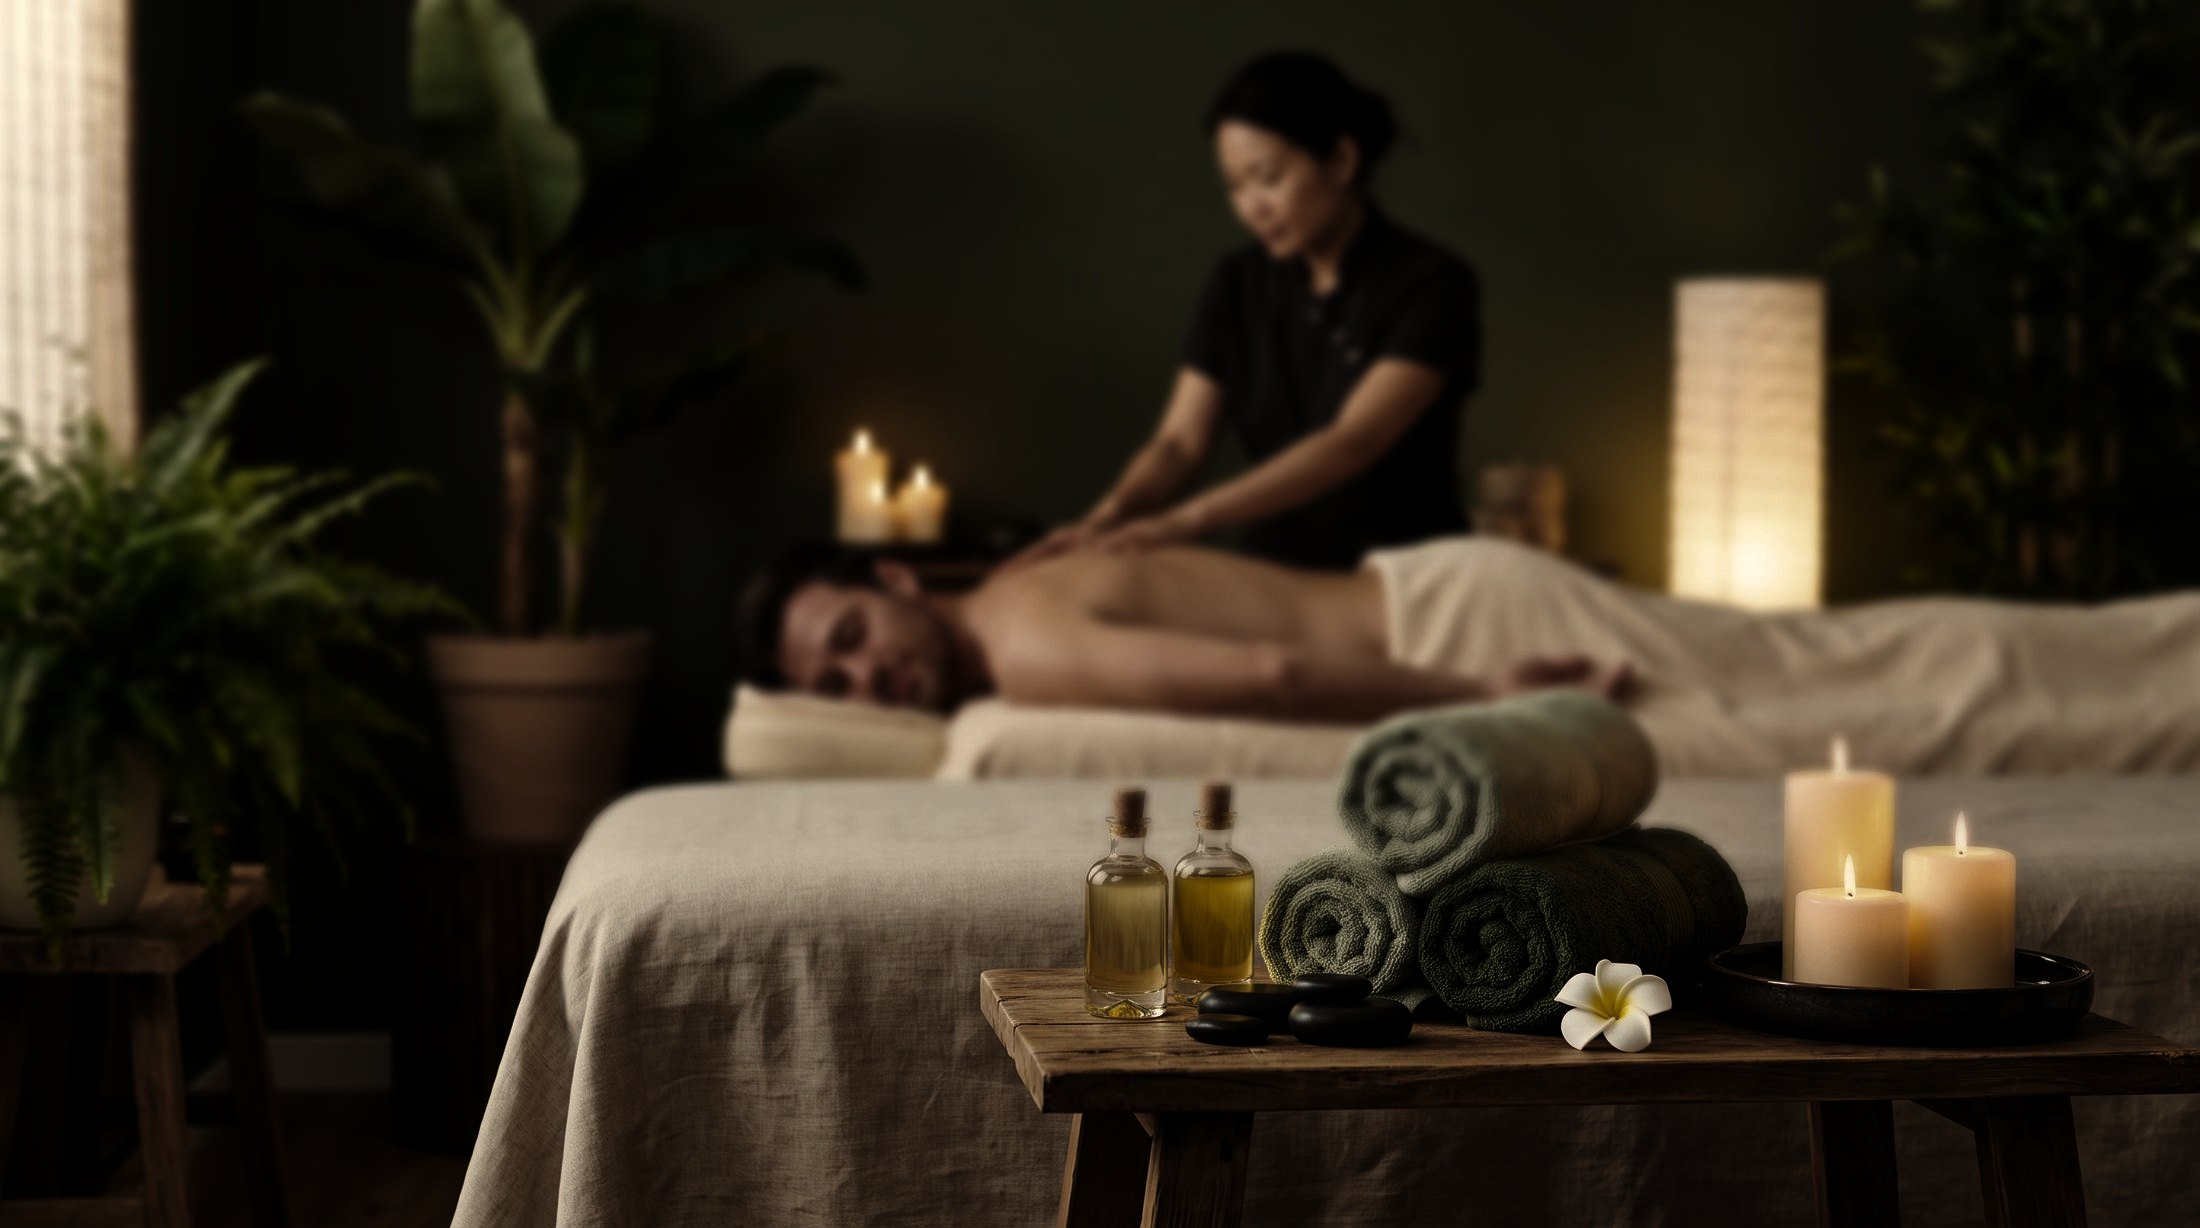
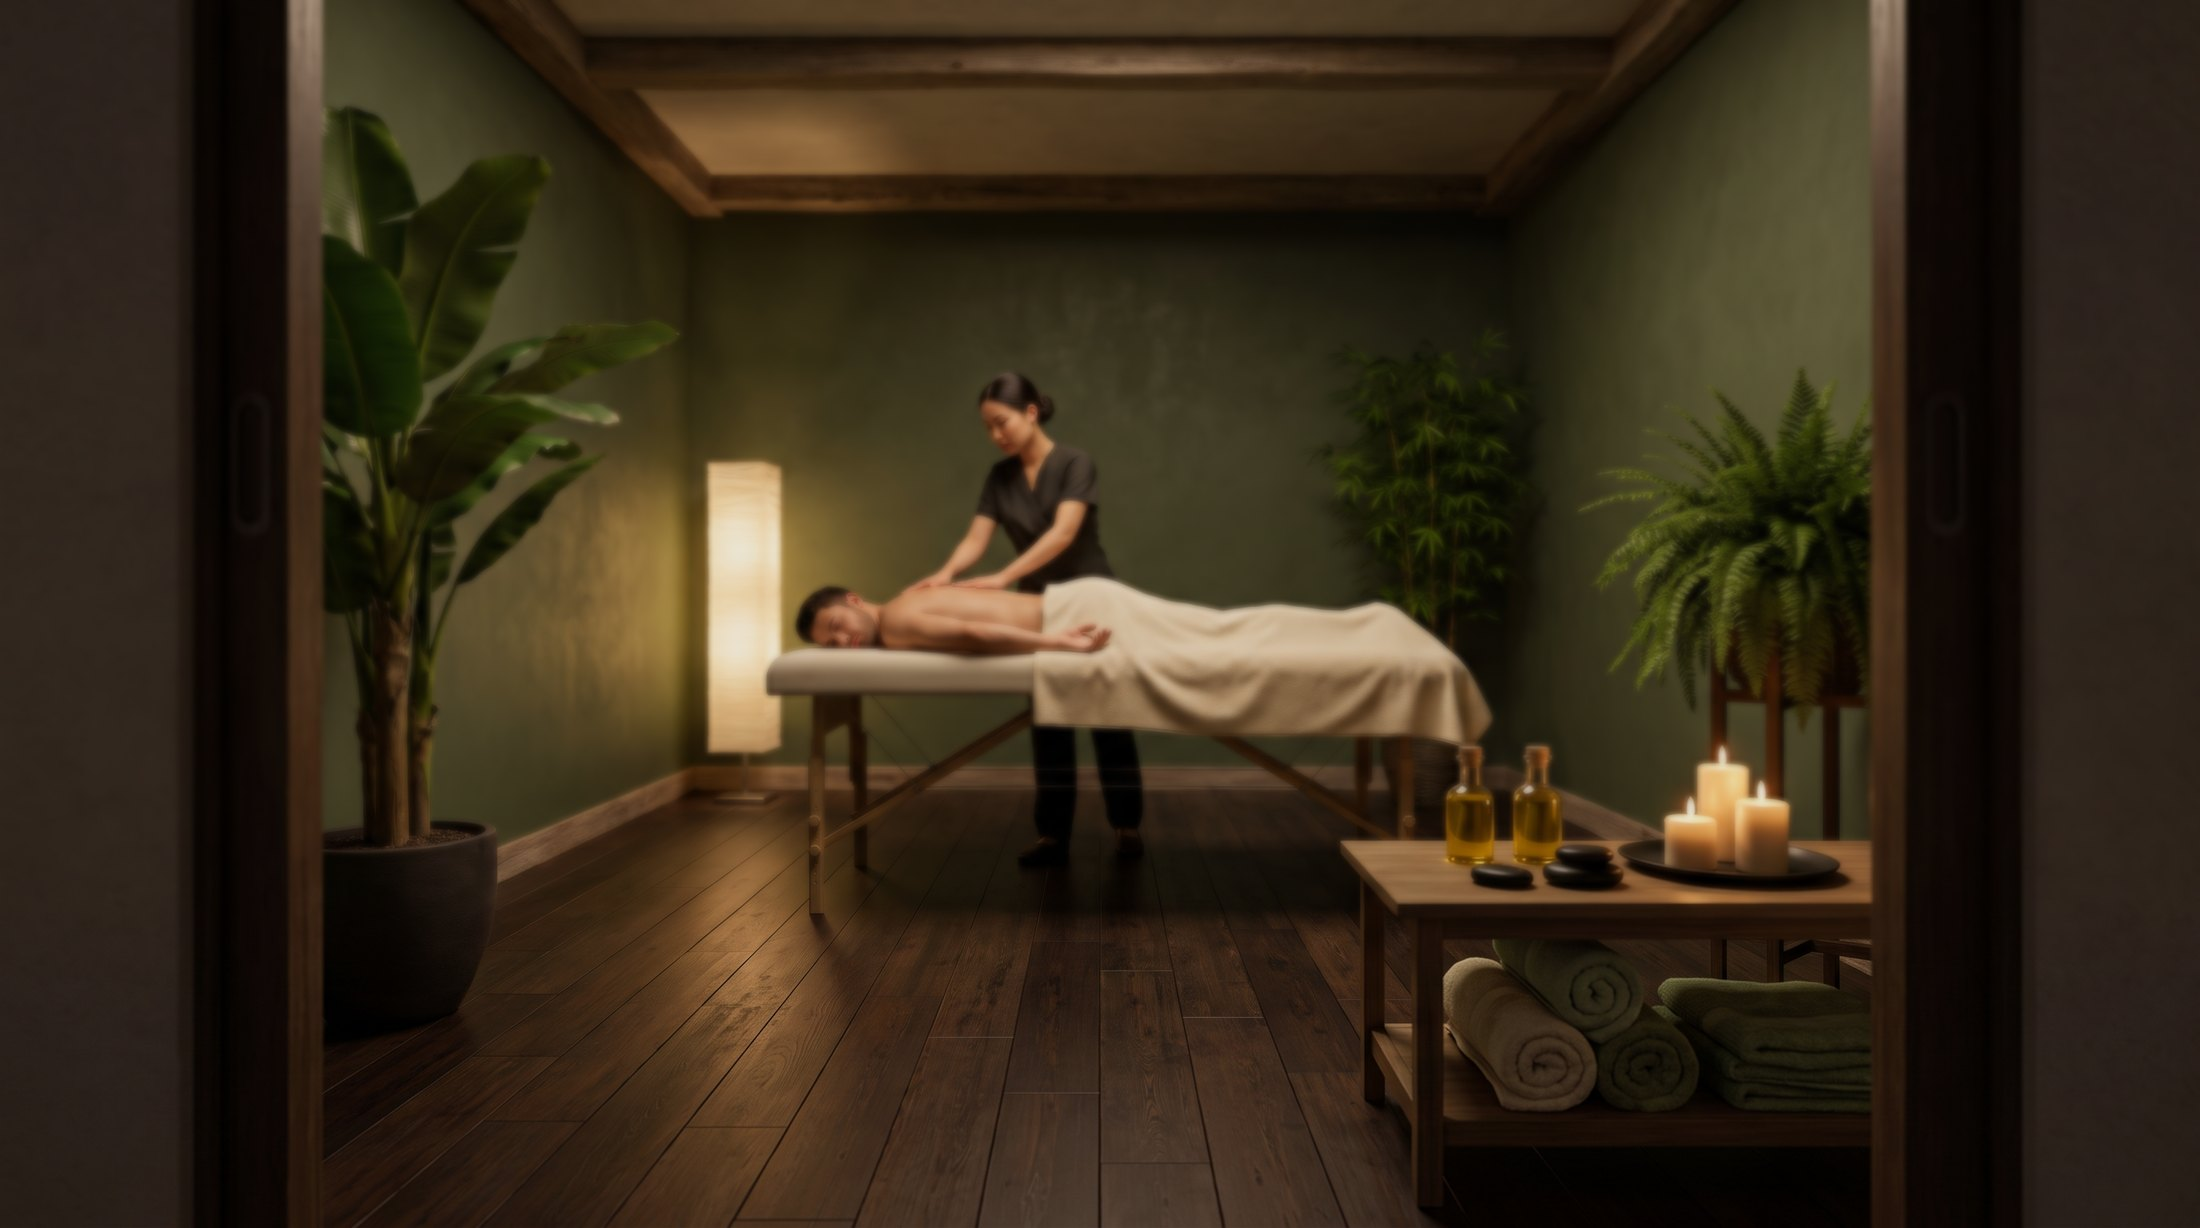
Doorway: spa room seen from the threshold at true scale (floor at the threshold, eye level matched), no frangipani

diff --git a/docs/CREDITS.md b/docs/CREDITS.md
@@ -67,4 +67,4 @@ AI-generated tracks were excluded on purpose: a brand sound should be human-made
 | ground-stone.jpg (doorway forecourt flagstones, mirrored into a seamless tile, relief lighting added) | Generated for Sia with OpenArt (Nano Banana 2), Plus plan with commercial use rights, 2026-10-26 |
 | wall-plaster.jpg (doorway wall: moss lime plaster, darkened and mirrored into a seamless tile) | Generated for Sia with OpenArt (Nano Banana 2), Plus plan with commercial use rights, 2026-10-26 |
 | garden-bamboo-a.webp, garden-bamboo-b.webp (courtyard tall airy bamboo in round carved stone pots, cut out) | Generated for Sia with OpenArt (Nano Banana 2), Plus plan with commercial use rights, 2026-10-26 |
-| spa-room.jpg (view through the doorway: candlelit spa treatment room; depth-of-field and low-light grade added) | Generated for Sia with OpenArt (Nano Banana Pro), Plus plan with commercial use rights, 2026-10-27 |
+| spa-room.jpg (view through the doorway: candlelit spa treatment room seen from the threshold; depth-of-field added) | Generated for Sia with OpenArt (Nano Banana Pro), Plus plan with commercial use rights, 2026-10-27 |
